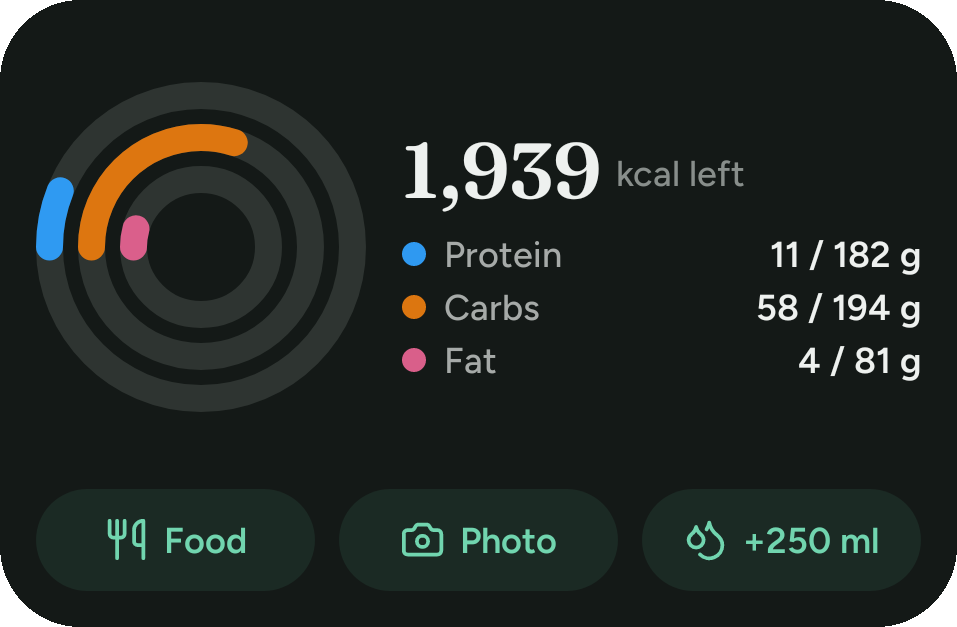
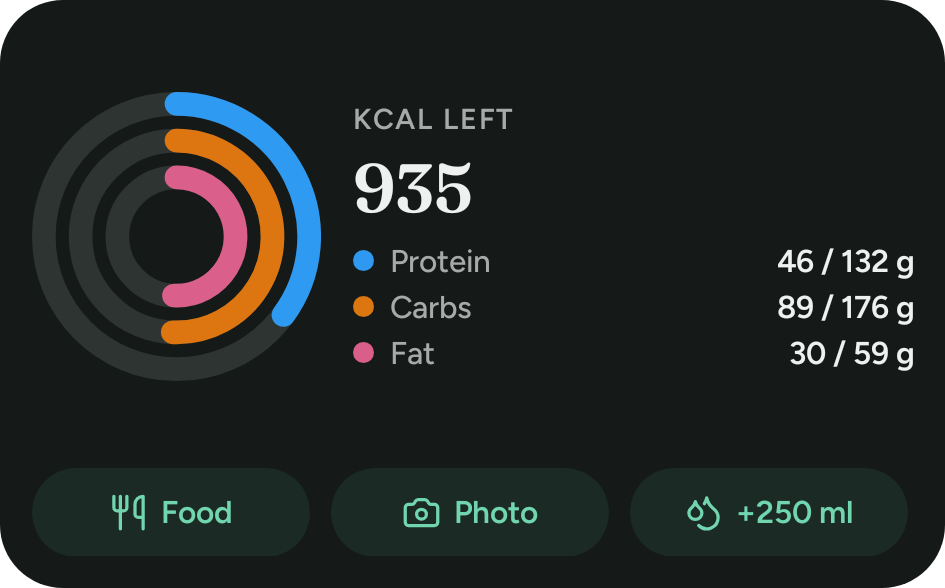
Caption the widget's number as calories left, and redraw the previews
The app's Intake ring counts up, eaten of target, so the widget's big
number beside an empty ring read as calories eaten; its "kcal left" was
small grey text after the number. A KCAL LEFT caption (KCAL OVER in red)
now sits above the number in every layout, as the app captions its own
figures.

Every height budget counts the caption, which moves the one-row strip
threshold: at one row on a Pixel-sized launcher the ring layout used to
be picked and cropped. The ring also gives way before the macro column
does on narrow widgets. Checked on an emulator at 4x2, three cells, two
cells and one row.

The picker previews are the widget's own drawings, taken from its image
provider with a real day logged: the old ones started the rings at 9
o'clock and had no caption.

diff --git a/src/widgets/TodayWidget.tsx b/src/widgets/TodayWidget.tsx
@@ -19,7 +19,8 @@ import { FONT, type WidgetPalette } from './palette'
     tall    — 4×3 and up: all three macros written out.
 
   "Left" rather than the app ring's "eaten of target": the question someone glancing at a home
-  screen is asking is how much of the day remains.
+  screen is asking is how much of the day remains. Because the app counts the other way, the
+  number is captioned before it is read (see Headline).
 
   Every height budget below is the sum of what it holds (text line heights, not font sizes),
   so a layout is only picked when its content fits — nothing overflows into the crop.
@@ -28,6 +29,10 @@ import { FONT, type WidgetPalette } from './palette'
 const PAD = 12
 const BUTTON = 34
 const BUTTON_GAP = 8
+/** The log buttons' row with the gap above it. */
+const ACTION_ROW = BUTTON + 10
+/** An 11pt caption's line, as the app's `Label` sets it above its own figures. */
+const CAPTION = 15
 
 export interface WidgetSize {
   width: number
@@ -77,39 +82,39 @@ const ACTIONS: Action[] = [
 
 type DayModel = Extract<TodayModel, { kind: 'day' }>
 
+/**
+ * The calories left (or over), captioned above rather than after.
+ *
+ * The app's Intake ring counts up — eaten of target — so a big number beside an empty ring
+ * reads as "that much eaten", and a small grey "kcal left" trailing it was read past. A caption
+ * over the figure, the way the app captions its own figures, is read first.
+ */
 const Headline: React.FC<{
   model: DayModel
   palette: WidgetPalette
   size: number
-  /** Stacked under the number, or beside it on one line. */
-  layout: 'stacked' | 'inline'
-}> = ({ model, palette, size, layout }) => {
+  align: 'start' | 'center'
+}> = ({ model, palette, size, align }) => {
   const over = model.eaten > model.goal
   const value = over ? model.eaten - model.goal : Math.max(0, model.goal - model.eaten)
-  const stacked = layout === 'stacked'
   return (
-    <FlexWidget
-      style={{
-        flexDirection: stacked ? 'column' : 'row',
-        alignItems: stacked ? 'center' : 'flex-end',
-      }}
-    >
+    <FlexWidget style={{ alignItems: align === 'center' ? 'center' : 'flex-start' }}>
+      <TextWidget
+        text={over ? 'KCAL OVER' : 'KCAL LEFT'}
+        allowFontScaling={false}
+        maxLines={1}
+        style={{
+          fontFamily: FONT.semibold,
+          fontSize: 11,
+          letterSpacing: 0.8,
+          color: over ? palette.critical : palette.textSecondary,
+        }}
+      />
       <TextWidget
         text={formatNumber(value)}
         allowFontScaling={false}
         maxLines={1}
         style={{ fontFamily: FONT.display, fontSize: size, color: over ? palette.critical : palette.text }}
-      />
-      <TextWidget
-        text={over ? 'kcal over' : 'kcal left'}
-        allowFontScaling={false}
-        maxLines={1}
-        style={{
-          fontFamily: FONT.medium,
-          fontSize: 12,
-          color: palette.textMuted,
-          ...(stacked ? {} : { marginLeft: 5, marginBottom: Math.round(size / 6) }),
-        }}
       />
     </FlexWidget>
   )
@@ -278,12 +283,14 @@ export const TodayWidget: React.FC<{ model: TodayModel; size: WidgetSize; palett
   const water = `${(model.waterMl / 1000).toFixed(1)} of ${(model.waterGoalMl / 1000).toFixed(1)} L`
 
   /*
-    One row high: the 20pt number over its label (26 + 16), and as many round buttons as fit
+    One row high — too short for the ring layout's caption and 22pt number (15 + 27) above its
+    buttons: the caption over the 20pt number (15 + 26), and as many round buttons as fit
     beside it — all three from four cells wide, then water alone (the log that needs no
     screen), then none. The number is the one thing a strip is never without.
   */
-  if (inner.height < 72) {
-    const numberWidth = 64
+  if (inner.height - ACTION_ROW < CAPTION + 27) {
+    // "KCAL LEFT", the wider of the two lines.
+    const numberWidth = 72
     const fit = Math.floor((inner.width - numberWidth + 6) / (BUTTON + 6))
     const shown = fit >= 3 ? ACTIONS : fit >= 1 ? ACTIONS.filter(a => a.key === 'water') : []
     return (
@@ -292,7 +299,7 @@ export const TodayWidget: React.FC<{ model: TodayModel; size: WidgetSize; palett
           style={{ width: inner.width, height: inner.height, flexDirection: 'row', alignItems: 'center' }}
         >
           <FlexWidget style={{ flex: 1 }}>
-            <Headline model={model} palette={palette} size={20} layout="stacked" />
+            <Headline model={model} palette={palette} size={20} align="start" />
           </FlexWidget>
           {shown.length > 0 ? (
             <FlexWidget style={{ flexDirection: 'row', flexGap: 6 }}>
@@ -306,9 +313,9 @@ export const TodayWidget: React.FC<{ model: TodayModel; size: WidgetSize; palett
     )
   }
 
-  // Two cells wide: the ring, and the number under it (6 + 26 + 16).
+  // Two cells wide: the ring, and the captioned number under it (6 + 15 + 26).
   if (inner.width < 176) {
-    const ring = Math.max(40, Math.min(96, inner.width, inner.height - 48))
+    const ring = Math.max(40, Math.min(96, inner.width, inner.height - (6 + CAPTION + 26)))
     return (
       <Shell palette={palette} size={size} accessibilityLabel={label}>
         <FlexWidget
@@ -316,20 +323,28 @@ export const TodayWidget: React.FC<{ model: TodayModel; size: WidgetSize; palett
         >
           <Ring model={model} palette={palette} size={ring} />
           <FlexWidget style={{ marginTop: 6 }}>
-            <Headline model={model} palette={palette} size={20} layout="stacked" />
+            <Headline model={model} palette={palette} size={20} align="center" />
           </FlexWidget>
         </FlexWidget>
       </Shell>
     )
   }
 
-  const actions = BUTTON + 10
-  // Tall: headline (31) + 4 + three macro rows (3 × 16 + 2 × 3) = 89 beside the ring.
-  const tall = inner.height - actions >= 96
-  const top = inner.height - actions
-  const ring = Math.max(44, Math.min(tall ? 110 : 76, top))
+  const top = inner.height - ACTION_ROW
+  // Beside the ring: the caption, the number's line, then macro rows of 16, 3 apart.
+  const column = (numberLine: number, rows: number) =>
+    CAPTION + numberLine + (rows > 0 ? 4 + rows * 16 + (rows - 1) * 3 : 0)
+  // Tall: all three macros under the 26pt number, 15 + 31 + 4 + 54 = 104.
+  const tall = top >= column(31, 3)
+  // Regular: protein under the 22pt number while it fits, then the number alone.
+  const lines = tall
+    ? model.macros
+    : top >= column(27, 1)
+      ? model.macros.filter(m => m.key === 'Protein')
+      : []
+  // The ring gives way before the column does: "Protein  182 / 182 g" needs about 136 across.
+  const ring = Math.max(40, Math.min(tall ? 110 : 76, top, inner.width - 12 - 136))
   const macroColor = { Protein: palette.macro.protein, Carbs: palette.macro.carbs, Fat: palette.macro.fat }
-  const lines = tall ? model.macros : model.macros.filter(m => m.key === 'Protein')
 
   return (
     <Shell palette={palette} size={size} accessibilityLabel={label}>
@@ -337,18 +352,20 @@ export const TodayWidget: React.FC<{ model: TodayModel; size: WidgetSize; palett
         <FlexWidget style={{ width: inner.width, height: top, flexDirection: 'row', alignItems: 'center' }}>
           <Ring model={model} palette={palette} size={ring} />
           <FlexWidget style={{ flex: 1, marginLeft: 12 }}>
-            <Headline model={model} palette={palette} size={tall ? 26 : 22} layout="inline" />
-            <FlexWidget style={{ width: 'match_parent', marginTop: 4, flexGap: 3 }}>
-              {lines.map(m => (
-                <MacroRow
-                  key={m.key}
-                  label={m.key}
-                  value={`${Math.round(m.grams)} / ${Math.round(m.goal)} g`}
-                  color={macroColor[m.key]}
-                  palette={palette}
-                />
-              ))}
-            </FlexWidget>
+            <Headline model={model} palette={palette} size={tall ? 26 : 22} align="start" />
+            {lines.length > 0 ? (
+              <FlexWidget style={{ width: 'match_parent', marginTop: 4, flexGap: 3 }}>
+                {lines.map(m => (
+                  <MacroRow
+                    key={m.key}
+                    label={m.key}
+                    value={`${Math.round(m.grams)} / ${Math.round(m.goal)} g`}
+                    color={macroColor[m.key]}
+                    palette={palette}
+                  />
+                ))}
+              </FlexWidget>
+            ) : null}
           </FlexWidget>
         </FlexWidget>
         <FlexWidget style={{ marginTop: 10 }}>
